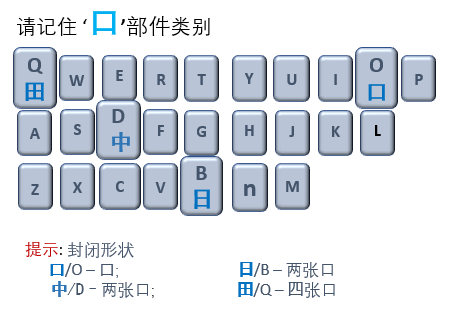
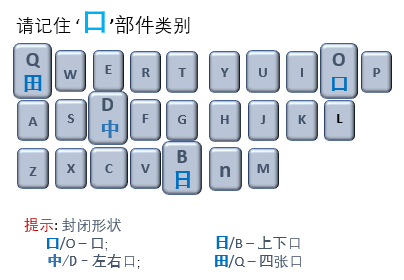
fixed typing exercise option bug and a few minor bug fixes and updates

diff --git a/lib/data/componenttypinglist.dart b/lib/data/componenttypinglist.dart
@@ -601,12 +601,12 @@ var theZiForGeneralExerciseList=[
 
 var theComponentCategoryStringIdAndTypingCharsList=[
   ComponentCategoryStringIdAndTypingChars(315, "O", "口凸石言"), // one mouth
-  ComponentCategoryStringIdAndTypingChars(327, "B", "日曰白臼母目自且身艮耳帽衰棺埠值唧殷基"), // two mouths
+  ComponentCategoryStringIdAndTypingChars(327, "B", "日曰白臼母目自且身艮耳帽衰棺埠值唧殷"), // two mouths
   ComponentCategoryStringIdAndTypingChars(326, "D", "中串虫史吏束柬皿四西酉黑熏革事禹徊勤囊腰临置曾兔"), // mouth with teeth
   ComponentCategoryStringIdAndTypingChars(351, "Q", "田由甲申电里果毋鬼曳更禺重曲惯龟阐碑嫂穗碘槽"), // four mouths
   ComponentCategoryStringIdAndTypingChars(345, "U", "凹廿甘画收山缶拙逆"), // north
   ComponentCategoryStringIdAndTypingChars(348, "N", "门贝见巾冉内肉而雨两甫月丹舟册同周奂滑遍沛制憋离肾索"), // south
-  ComponentCategoryStringIdAndTypingChars(317, "C", "巨臣亡枢宦尹聿秉丑兜灵剥帚侯睁肃逮庚庸捷凄谦"), // open to sides
+  ComponentCategoryStringIdAndTypingChars(317, "C", "巨臣亡枢宦"), // open to sides
 
   ComponentCategoryStringIdAndTypingChars(353, "A", "人入火个金食臾大犬夫央夷椿筷"), // human legs
   ComponentCategoryStringIdAndTypingChars(350, "X", "乂文丈女戈戋又皮父我戊戢必龙及攸烧降夜越葱"), // cross legs
@@ -614,20 +614,20 @@ var theComponentCategoryStringIdAndTypingCharsList=[
   ComponentCategoryStringIdAndTypingChars(322, "M", "木本未末耒米求禾爪水永豕象承小示乐东不炼剥潘茶聚缘琢刺恭"), // three legs
   ComponentCategoryStringIdAndTypingChars(347, "V", "八儿兆川州非竹剿孪弈师挤渊丞登舆鼎侃鼠"), // separated legs
 
-  ComponentCategoryStringIdAndTypingChars(320, "P", "刀尸力为户书韦弗万方乃卫楣陪却哪溜顾假姊弟"), // knife shape
+  ComponentCategoryStringIdAndTypingChars(320, "P", "刀尸力为户书韦弗万方乃卫楣陪却哪溜顾假姊弟尹聿秉丑睁肃逮庚庸捷凄谦"), // knife shape
   ComponentCategoryStringIdAndTypingChars(319, "T", "丁于牙乎了子孑予矛下手坷"), // T shape
   ComponentCategoryStringIdAndTypingChars(346, "K", "十土士干千牛才寸车年丰羊洗渚降技晴择"), // cross shape
-  ComponentCategoryStringIdAndTypingChars(316, "E", "王玉五工亚垂二三疟糕集御"), // 工 shape
+  ComponentCategoryStringIdAndTypingChars(316, "E", "王玉五工亚垂一二三疟糕集御"), // 工 shape
   ComponentCategoryStringIdAndTypingChars(349, "F", "厂广斤斥丘后痊鹿泼畴拜搓判滤佑须浓所"), // cliff shape
   ComponentCategoryStringIdAndTypingChars(321, "G", "幺乡衣长拚层拟展亥终丝紧缘髦袁派祭"), // triangle
 
   ComponentCategoryStringIdAndTypingChars(342, "I", "卜爿上止业攸创览卓性将背涉尚面延胥犀债徒"), // vertical
-  ComponentCategoryStringIdAndTypingChars(344, "H", "井一莽带舞散媾"), // horizontal
+  ComponentCategoryStringIdAndTypingChars(344, "H", "井莽带舞散媾基"), // horizontal
   ComponentCategoryStringIdAndTypingChars(318, "J", "片劣吻须受段疙锌临简昂泖印玺角馅猪貌"), // arc
   ComponentCategoryStringIdAndTypingChars(324, "W", "仪养均兑温实兴热"), // linear dots
   ComponentCategoryStringIdAndTypingChars(352, "Y", "之丫立道班蛇函祸衩前鬲"), // other dots
   ComponentCategoryStringIdAndTypingChars(343, "L", "毛七匕己已巳巴也屯乙飞心瓦氏民气世弋断乱延花沏皆凯创甩迅贰"), // northeast
-  ComponentCategoryStringIdAndTypingChars(323, "S", "刁习夕歹专弓丐司敢今蛋甬劲然烫忽黎巧写驰呜鸣"), // southwest
+  ComponentCategoryStringIdAndTypingChars(323, "S", "刁习夕歹专弓丐司敢今蛋甬劲然烫忽黎巧写驰呜鸣兜剥帚侯"), // southwest
 ];
 
 //var theComponentList = [

diff --git a/lib/ui/drillpagecore.dart b/lib/ui/drillpagecore.dart
@@ -166,7 +166,7 @@ class _DrillPageCoreState extends State<DrillPageCore> with SingleTickerProvider
 
   @override
   Widget build(BuildContext context) {
-    int compoundZiCurrentComponentId = 0;
+    int compoundZiCurrentComponentId = -1;
     int compoundZiTotalComponentNum = 0;
 
     // compound zi is animating.
@@ -366,6 +366,7 @@ class _DrillPageCoreState extends State<DrillPageCore> with SingleTickerProvider
   }
 
   //NOTE: setState within the Timer so that it'll trigger this function to be called repeatedly.
+  // Not really an animation, just set a timer to display a component in the center, after time, display next component in the center, etc.
   void  compoundZiAnimation() {
     const oneSec = const Duration(seconds: 1);
     compoundZiAnimationTimer = new Timer(oneSec, () {     //timeout(oneSec, (Timer t) {   //periodic

diff --git a/lib/data/searchingzilist.dart b/lib/data/searchingzilist.dart
@@ -764,7 +764,7 @@ var theSearchingZiList = [
   SearchingZi(760,"铃", "líng", "bell",10,["Sl","686"],"",0,"","","l",[],686,0,5),
   SearchingZi(761,"徐", "xú", "slowly; gently; surname",10,["Lh","712"],"",0,"","","l",[],712,0,7),
   SearchingZi(762,"途", "tú", "way; road; route",10,["712","Ml"],"",0,"","","b",[],712,0,4),
-  SearchingZi(763,"拿", "ná", "hold; take",10,["673","52","1435","2683"],"",0,"","","u",[],2683,0,1),
+  SearchingZi(763,"拿", "ná", "hold; take",10,["691","2683"],"",0,"","","u",[],2683,0,1),
   SearchingZi(764,"敛", "liàn", "restrain; hold back",10,["713","Sj"],"",0,"","","r",[],713,0,7),
   SearchingZi(765,"耸", "sǒng", "towering; lofty",10,["676","3445"],"",0,"","","u",[],3445,0,7),
   SearchingZi(766,"脊", "jǐ", "spine",10,["Mn","673","Ud"],"",0,"","","u",[],40,0,7),

diff --git a/lib/ui/typingcomponentselectionpage.dart b/lib/ui/typingcomponentselectionpage.dart
@@ -85,7 +85,13 @@ class _TypingSelectionPageState extends State<TypingComponentSelectionPage> {
 
     // due to localization, has to do it every build instead of init
     _dropdownMenuItemsNumber = buildDropdownMenuItemsNumber(/*_exerciseNumbers*/);
-    _selectedComponentExerciseNumber = _dropdownMenuItemsNumber[0].value;
+    if (_selectedComponentExerciseNumber == null) {
+      _selectedComponentExerciseNumber = _dropdownMenuItemsNumber[0].value;
+    }
+    else {
+      // _select* has to map to one in the current _dropdown*
+      _selectedComponentExerciseNumber = _dropdownMenuItemsNumber[_selectedComponentExerciseNumber.id].value;
+    }
 
     return Scaffold
       (

diff --git a/lib/localization/string_en_US.dart b/lib/localization/string_en_US.dart
@@ -328,10 +328,10 @@ var theString_en_US = [
   Local(321, "Triangle shape"),
   Local(322, "Three legs"),
   Local(323, "Line turning down"),
-  Local(324, "Simple 'dots'"),
+  Local(324, "Pure 'dots'"),
   Local(325, "Strange legs"),
-  Local(326, "Two mouths"),
-  Local(327, "Two mouths"),
+  Local(326, "Left & right mouths"),
+  Local(327, "Up & down mouths"),
   Local(328, "Learn more Chinese alphabets"),
   Local(329, "Learn Twin Components"),
   Local(330, "Learn Sub Components"),

diff --git a/lib/ui/drillpainter.dart b/lib/ui/drillpainter.dart
@@ -44,7 +44,8 @@ class DrillPainter extends BasePainter {
     //?theCurrentCenterZiId = centerId;
     drawZiGroup(centerId, ZiListType.searching, drillCategory, reviewStartLessonId, reviewEndLessonId);
 
-    if (compoundZiCurrentComponentId > 0) {
+    // component list starts from 0, unlike zi list
+    if (compoundZiCurrentComponentId >= 0) {
       // for compound zi animation action only
       drawCenterZi(compoundZiCurrentComponentId, ziListType);
     }

diff --git a/lib/localization/string_zh_CN.dart b/lib/localization/string_zh_CN.dart
@@ -327,10 +327,10 @@ var theString_zh_CN = [
   Local(321, "三角形"),
   Local(322, "三条腿"),
   Local(323, "横折勾"),
-  Local(324, "简单'点'"),
+  Local(324, "单纯'点'"),
   Local(325, "怪腿"),
-  Local(326, "二张口"),
-  Local(327, "二张口"),
+  Local(326, "左右口"),
+  Local(327, "上下口"),
   Local(328, "学习更多部件"),
   Local(329, "学习双胞胎部件"),
   Local(330, "学习子部件"),

diff --git a/lib/ui/drillpage.dart b/lib/ui/drillpage.dart
@@ -144,7 +144,7 @@ class _DrillPageState extends State<DrillPage> with SingleTickerProviderStateMix
 
   @override
   Widget build(BuildContext context) {
-    int compoundZiCurrentComponentId = 0;
+    int compoundZiCurrentComponentId = -1;
     int compoundZiTotalComponentNum = 0;
 
     // compound zi is animating.

diff --git a/lib/data/inputzilist.dart b/lib/data/inputzilist.dart
@@ -2922,7 +2922,7 @@ var theInputZiList=[
   InputZi("tqis", 22937,"抽"),
   InputZi("tqnk", 9401,"押"),
   InputZi("tqx", 12537,"搜"),
-  InputZi("tRes", 9225,"捷"),
+  InputZi("tres", 9225,"捷"),
   InputZi("trjl", 47543,"执"),
   InputZi("trk", 3233,"垫"),
   InputZi("trp", 10477,"抛"),
